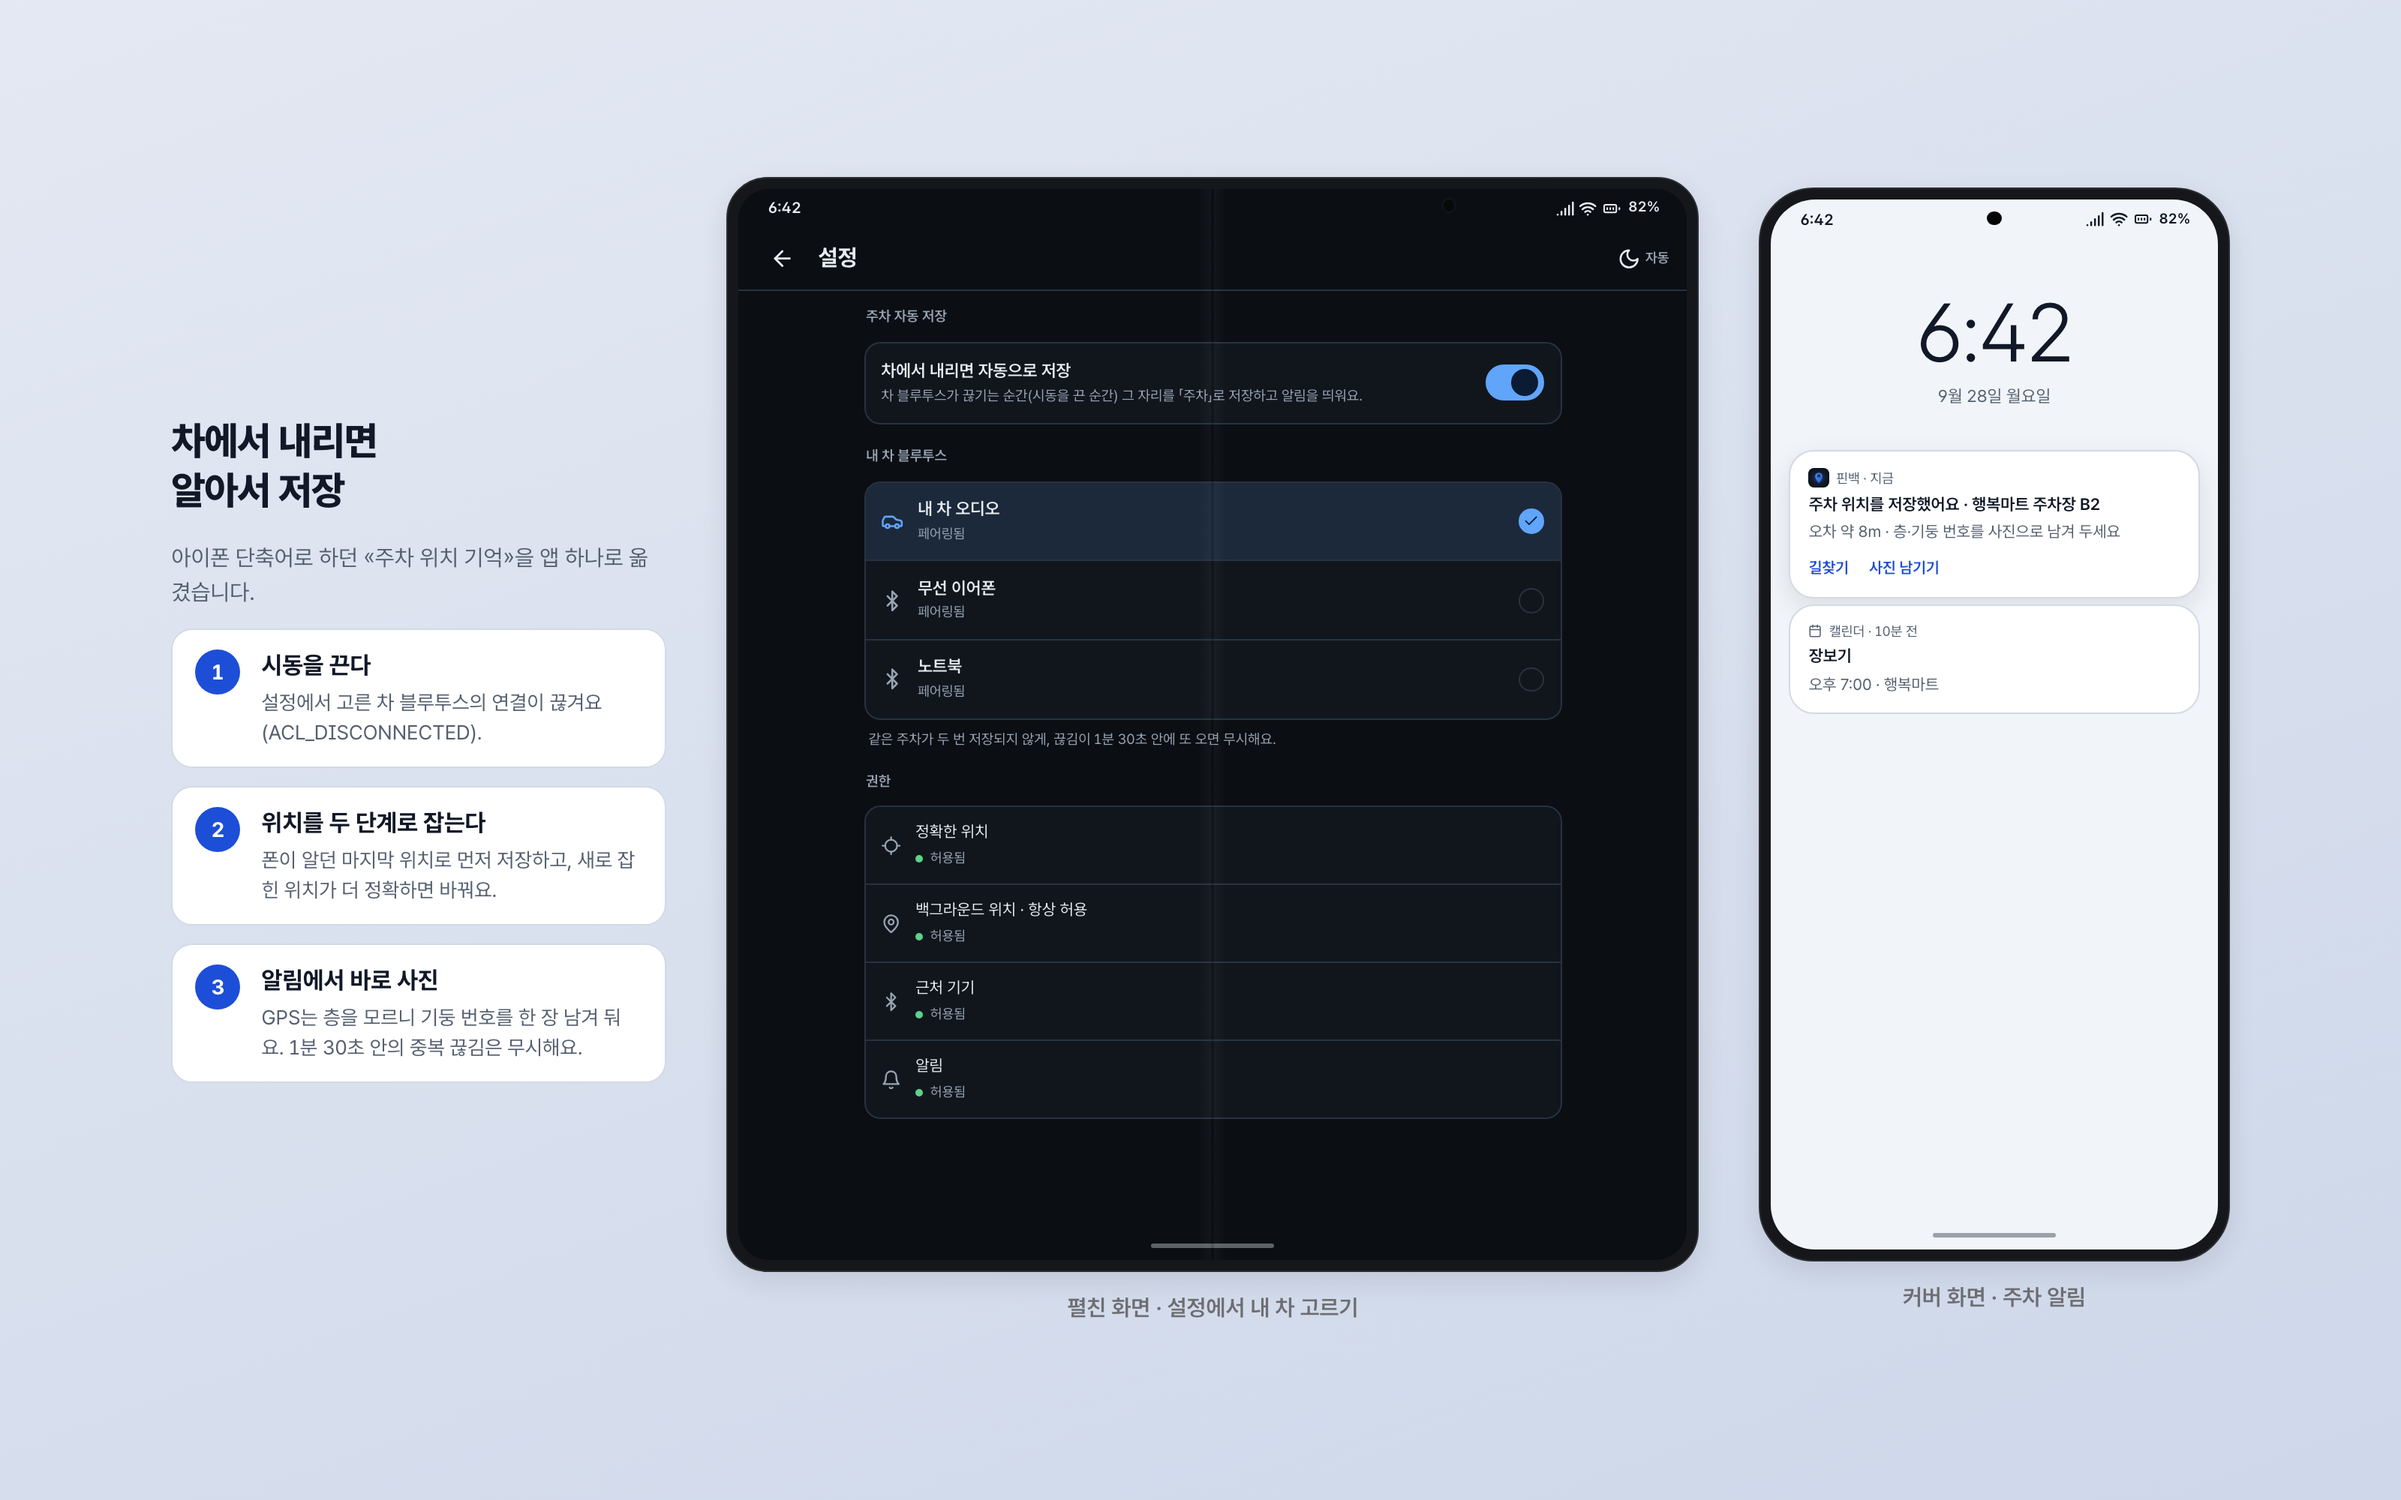
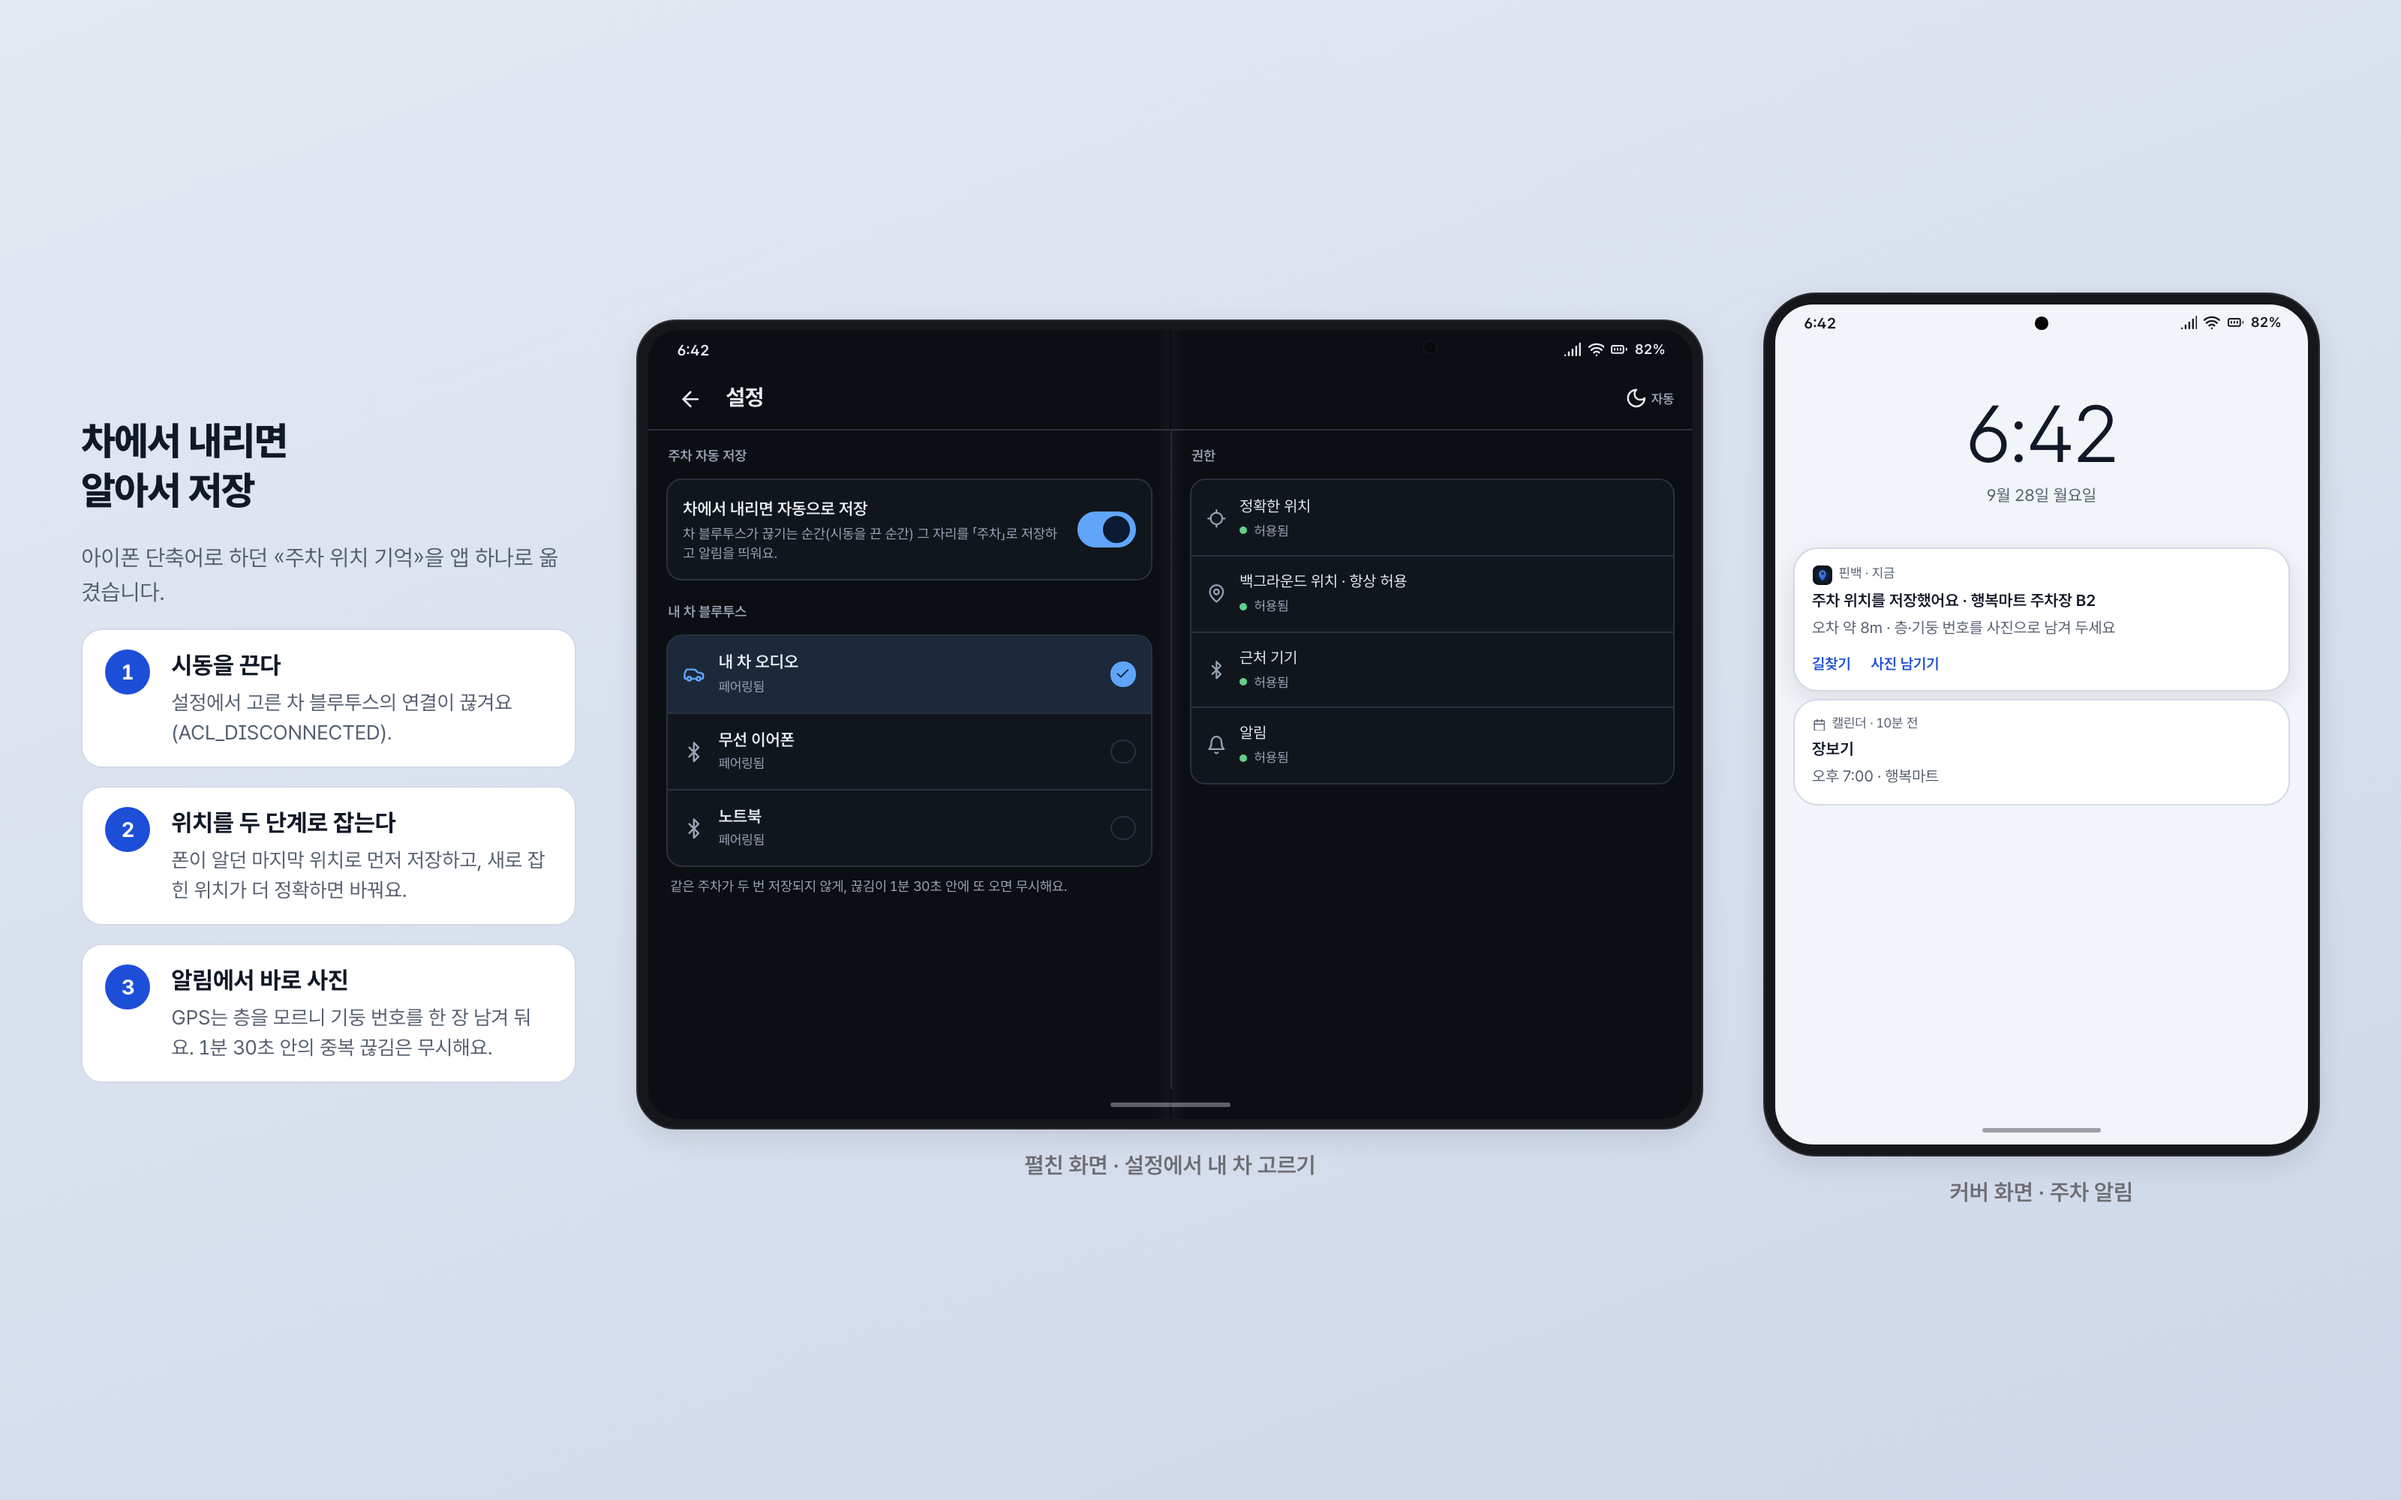
docs: re-render mockups at real Galaxy Z Fold8 ratios

diff --git a/docs/mockups/save.html b/docs/mockups/save.html
@@ -6,8 +6,8 @@
 <script src="https://mockup-kit.invalid/kit.js"></script>
 <link rel="stylesheet" href="_app.css">
 <style>
-  .head { position:absolute; top:44px; left:0; right:0; text-align:center; }
-  .layout { position:absolute; top:130px; left:0; right:0; bottom:0; display:flex; align-items:flex-start; justify-content:center; gap:34px; }
+  .head { position:absolute; top:88px; left:0; right:0; text-align:center; }
+  .layout { position:absolute; top:196px; left:0; right:0; bottom:0; display:flex; align-items:flex-start; justify-content:center; gap:26px; }
   .scrim { z-index:40; }
   .snackbar { position:absolute; left:12px; right:12px; bottom:28px; z-index:30; }
 </style>
@@ -17,7 +17,7 @@
   <div class="layout">
 
     <div>
-      <div class="fold-cover light" style="--zoom:.74"><div class="screen">
+      <div class="fold-cover light" style="--zoom:.72"><div class="screen">
         <div class="status-bar" data-time="1:05"></div>
         <div class="app-bar"><img class="mark" data-app="pinback" alt=""><span class="title">핀백</span><span class="spacer"></span><span class="icon-btn"><i data-icon="settings"></i></span><span class="theme-btn"><i data-icon="sun"></i></span></div>
         <div class="content" style="gap:8px">
@@ -33,7 +33,7 @@
     </div>
 
     <div>
-      <div class="fold-cover light" style="--zoom:.74"><div class="screen">
+      <div class="fold-cover light" style="--zoom:.72"><div class="screen">
         <div class="status-bar" data-time="1:05"></div>
         <div class="app-bar"><img class="mark" data-app="pinback" alt=""><span class="title">핀백</span><span class="spacer"></span><span class="icon-btn"><i data-icon="settings"></i></span><span class="theme-btn"><i data-icon="sun"></i></span></div>
         <div class="content" style="gap:8px">
@@ -56,7 +56,7 @@
     </div>
 
     <div>
-      <div class="fold-cover light" style="--zoom:.74"><div class="screen">
+      <div class="fold-cover light" style="--zoom:.72"><div class="screen">
         <div class="status-bar" data-time="1:07"></div>
         <div class="app-bar"><span class="icon-btn"><i data-icon="arrow-left"></i></span><span class="title">장소</span><span class="spacer"></span><span class="theme-btn"><i data-icon="sun"></i></span></div>
         <div class="content" style="gap:10px">
@@ -79,7 +79,7 @@
     </div>
 
     <div>
-      <div class="fold-cover light" style="--zoom:.74"><div class="screen">
+      <div class="fold-cover light" style="--zoom:.72"><div class="screen">
         <div class="status-bar" data-time="1:10"></div>
         <div class="app-bar"><img class="mark" data-app="pinback" alt=""><span class="title">핀백</span><span class="spacer"></span><span class="icon-btn"><i data-icon="settings"></i></span><span class="theme-btn"><i data-icon="sun"></i></span></div>
         <div class="content" style="gap:8px">

diff --git a/docs/mockups/parking.html b/docs/mockups/parking.html
@@ -25,7 +25,7 @@
     </div>
 
     <div>
-      <div class="fold-open dark" style="--zoom:.76">
+      <div class="fold-open dark" style="--zoom:.74">
         <div class="screen">
           <div class="status-bar" data-time="6:42"></div>
           <div class="app-bar">
@@ -34,7 +34,8 @@
             <span class="spacer"></span>
             <span class="theme-btn"><i data-icon="moon"></i><span>자동</span></span>
           </div>
-          <div class="content" style="gap:8px; padding:12px 110px 16px">
+          <div class="two-pane">
+            <div class="pane">
             <div class="lbl" style="margin-top:0">주차 자동 저장</div>
             <div class="box"><div class="sw"><div class="grow"><div class="a">차에서 내리면 자동으로 저장</div><div class="b">차 블루투스가 끊기는 순간(시동을 끈 순간) 그 자리를 「주차」로 저장하고 알림을 띄워요.</div></div><span class="switch on"></span></div></div>
             <div class="lbl">내 차 블루투스</div>
@@ -44,12 +45,15 @@
               <div class="dev"><i data-icon="bluetooth"></i><div class="grow"><div class="n">노트북</div><div class="m">페어링됨</div></div><span class="radio"></span></div>
             </div>
             <div class="hint">같은 주차가 두 번 저장되지 않게, 끊김이 1분 30초 안에 또 오면 무시해요.</div>
-            <div class="lbl">권한</div>
+            </div>
+            <div class="pane">
+            <div class="lbl" style="margin-top:0">권한</div>
             <div class="box">
               <div class="perm"><i data-pi="locate"></i><div class="grow">정확한 위치<div class="s"><i class="d"></i>허용됨</div></div></div>
               <div class="perm"><i data-icon="map-pin"></i><div class="grow">백그라운드 위치 · 항상 허용<div class="s"><i class="d"></i>허용됨</div></div></div>
               <div class="perm"><i data-icon="bluetooth"></i><div class="grow">근처 기기<div class="s"><i class="d"></i>허용됨</div></div></div>
               <div class="perm"><i data-icon="bell"></i><div class="grow">알림<div class="s"><i class="d"></i>허용됨</div></div></div>
+            </div>
             </div>
           </div>
           <div class="nav-handle"></div>
@@ -59,7 +63,7 @@
     </div>
 
     <div>
-      <div class="fold-cover light" style="--zoom:.76">
+      <div class="fold-cover light" style="--zoom:.74">
         <div class="screen shade">
           <div class="status-bar" data-time="6:42"></div>
           <div class="content" style="gap:10px; padding-top:8px">

diff --git a/docs/mockups/hero.html b/docs/mockups/hero.html
@@ -6,11 +6,14 @@
 <script src="https://mockup-kit.invalid/kit.js"></script>
 <link rel="stylesheet" href="_app.css">
 <style>
-  .layout { position:absolute; inset:0; display:flex; align-items:center; justify-content:center; gap:44px; }
-  .intro { width:372px; display:flex; flex-direction:column; gap:14px; }
+  .layout { position:absolute; inset:0; display:flex; align-items:center; justify-content:center; gap:40px; }
+  .intro { width:340px; display:flex; flex-direction:column; gap:14px; }
   .intro .app { display:flex; align-items:center; gap:14px; }
   .intro .app img { width:64px; height:64px; border-radius:16px; }
   .intro .step { padding:12px 14px; }
+  /* 펼침 940x710 가로: 상세 칸 높이 594 에 맞춰 사진·간격을 줄인다 */
+  .fold-open .pane + .pane { gap:8px !important; }
+  .fold-open .photo { height:96px; }
 </style>
 </head><body>
 <div class="canvas app-pinback desk-accent">
@@ -23,7 +26,7 @@
     </div>
 
     <div>
-      <div class="fold-open light" style="--zoom:.78">
+      <div class="fold-open light" style="--zoom:.72">
         <div class="screen">
           <div class="status-bar" data-time="2:30"></div>
           <div class="app-bar">
@@ -65,7 +68,7 @@
     </div>
 
     <div>
-      <div class="fold-cover dark" style="--zoom:.78">
+      <div class="fold-cover dark" style="--zoom:.72">
         <div class="screen">
           <div class="status-bar" data-time="2:30"></div>
           <div class="app-bar">

diff --git a/docs/mockups/thumbnail.html b/docs/mockups/thumbnail.html
@@ -6,8 +6,10 @@
 <script src="https://mockup-kit.invalid/kit.js"></script>
 <link rel="stylesheet" href="_app.css">
 <style>
-  .layout { position:absolute; inset:0; display:flex; align-items:center; justify-content:center; gap:44px; }
-  .intro { width:372px; display:flex; flex-direction:column; gap:14px; }
+  .layout { position:absolute; inset:0; display:flex; align-items:center; justify-content:center; gap:40px; }
+  .fold-open .pane + .pane { gap:8px !important; }
+  .fold-open .photo { height:96px; }
+  .intro { width:340px; display:flex; flex-direction:column; gap:14px; }
   .intro .app { display:flex; align-items:center; gap:14px; }
   .intro .app img { width:64px; height:64px; border-radius:16px; }
   .intro .cap-title{font-size:52px} .intro .app img{width:96px;height:96px;border-radius:22px} .big{font-size:22px;line-height:34px;color:var(--dim)}
@@ -21,7 +23,7 @@
                       </div>
 
     <div>
-      <div class="fold-open light" style="--zoom:.72">
+      <div class="fold-open light" style="--zoom:.66">
         <div class="screen">
           <div class="status-bar" data-time="2:30"></div>
           <div class="app-bar">
@@ -63,7 +65,7 @@
     </div>
 
     <div>
-      <div class="fold-cover dark" style="--zoom:.72">
+      <div class="fold-cover dark" style="--zoom:.66">
         <div class="screen">
           <div class="status-bar" data-time="2:30"></div>
           <div class="app-bar">

diff --git a/docs/mockups/scenes/1-save-phone.html b/docs/mockups/scenes/1-save-phone.html
@@ -1,14 +1,14 @@
 <!doctype html>
 <html lang="ko"><head><meta charset="utf-8">
-<meta name="shot" content="w=1296,h=1800,scale=1">
+<meta name="shot" content="w=1137,h=1800,scale=1">
 <title>장면 1 · 커버 화면 — 지금 위치 저장 후 이름·메모 시트</title>
 <link rel="stylesheet" href="https://mockup-kit.invalid/kit.css">
 <script src="https://mockup-kit.invalid/kit.js"></script>
 <link rel="stylesheet" href="../_app.css">
 <style>
-  /* 폴드8 커버 영역 0.72:1 — 270 x 375dp 를 4.8배(평소보다 UI 를 크게) */
+  /* 폴드8 커버 영역 0.63:1 — 252.7 x 400dp 를 4.5배(평소보다 UI 를 크게) */
   body { margin:0; background:#000; }
-  .screen { zoom: 4.8; width: 270px; height: 375px; border-radius: 0; }
+  .screen { zoom: 4.5; width: 252.67px; height: 400px; border-radius: 0; }
   .status-bar { height: 22px; font-size: 11px; padding: 0 14px; }
   .app-bar { height: 40px; gap: 8px; padding: 0 12px; }
   .app-bar .title { font-size: 17px; }
@@ -22,7 +22,7 @@
   .field .fv.memo { font-weight: 400; font-size: 15px; }
   .navbtn { height: 40px; font-size: 15px; }
   .obtn { height: 40px; font-size: 14px; flex:1; }
-  .sub { font-size: 12px; color: var(--dim); margin-top: -4px; }
+  .sub { font-size: 12px; color: var(--dim); margin-top: -4px; word-break: keep-all; }
 </style></head><body>
 <div class="screen app-pinback light">
   <div class="status-bar" data-time="4:12"></div>

diff --git a/docs/mockups/scenes/1-save-mac.html b/docs/mockups/scenes/1-save-mac.html
@@ -1,16 +1,18 @@
 <!doctype html>
 <html lang="ko"><head><meta charset="utf-8">
-<meta name="shot" content="w=1800,h=1296,scale=1">
+<meta name="shot" content="w=1800,h=1454,scale=1">
 <title>장면 1 · 맥 화면 — 카페에서 작업 중</title>
 <link rel="stylesheet" href="https://mockup-kit.invalid/kit.css">
 <script src="https://mockup-kit.invalid/kit.js"></script>
 <link rel="stylesheet" href="../_app.css">
 <style>
   body { margin:0; background:#000; }
-  .desk { zoom: 2.25; width: 800px; height: 576px; position: relative; overflow: hidden;
+  .desk { zoom: 2.25; width: 800px; height: 646px; position: relative; overflow: hidden;
     background: radial-gradient(120% 90% at 20% 10%, #D6E3F5 0%, #A9C0E0 45%, #7893BC 100%); }
   .mac-menubar { font-size: 14px; }
-  .notes { position: absolute; left: 70px; top: 52px; width: 660px; height: 490px; }
+  /* G 배경의 노치가 메뉴 글자를 가리지 않게 「보기」부터 노치 오른쪽으로 */
+  .mac-menubar > span:nth-child(5) { margin-left: 130px; }
+  .notes { position: absolute; left: 70px; top: 56px; width: 660px; height: 550px; }
   .notes .mac-split { grid-template-columns: 170px 1fr; }
   .note-item { padding: 8px 10px; border-radius: 8px; font-size: 14px; line-height: 20px; }
   .note-item.on { background: #F4D26B; }

diff --git a/docs/mockups/navigate.html b/docs/mockups/navigate.html
@@ -21,7 +21,7 @@
 <div class="canvas app-pinback desk-accent">
   <div class="layout">
     <div>
-      <div class="fold-open dark" style="--zoom:.78">
+      <div class="fold-open dark" style="--zoom:.86">
         <div class="screen">
           <div class="status-bar" data-time="7:15"></div>
           <div class="app-bar">
